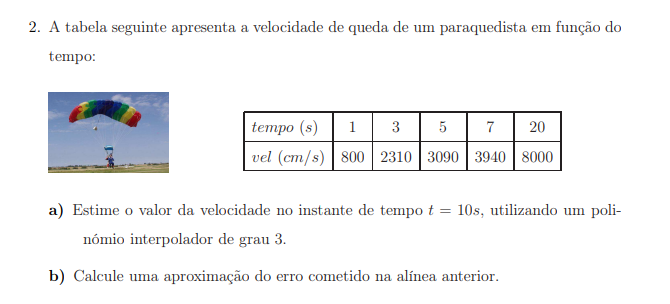
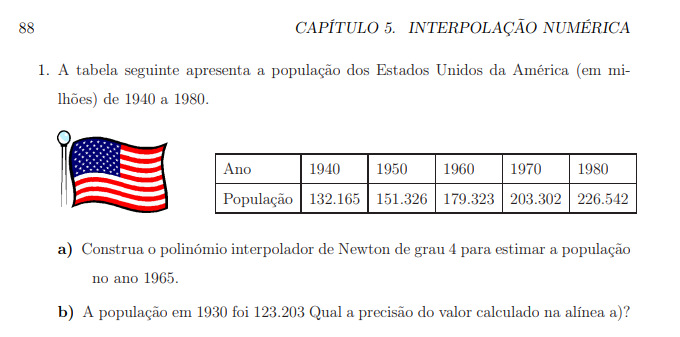
Questões implementadas

diff --git a/metodosInterpolacao/FormaDeNewton/questaoNewton.py b/metodosInterpolacao/FormaDeNewton/questaoNewton.py
@@ -1,24 +1,30 @@
-from newton import diferencas_divididas, interpolacao_newton
+from newton import diferencas_divididas, interpolacao_newton, polinomio_simbolico_newton
 
-# Dados completos da tabela
-tempo_completo = [1, 3, 5, 7, 20]
-vel_completo = [800, 2310, 3090, 3940, 8000]
+# Dados da tabela
+anos = [1940, 1950, 1960, 1970, 1980]
+populacao = [132.165, 151.326, 179.323, 203.302, 226.542]
 
-# a) Polinômio de grau 3 -> usar 4 pontos (os mais próximos de t=10)
-# t=10 está entre 7 e 20, então os 4 pontos mais próximos são: 3, 5, 7, 20
+# Tabela de diferenças divididas
+coeficientes = diferencas_divididas(anos, populacao)
+print("=== Tabela de diferenças divididas ===")
+for i, c in enumerate(coeficientes):
+    print(f"  f[x0..x{i}] = {c}")
 
-t_estimar = 10
-coeficientes = diferencas_divididas(tempo_completo, vel_completo)
-resultado_grau3 = interpolacao_newton(tempo_completo, vel_completo, t_estimar)
+# a) Polinômio de grau 4 (5 pontos) -> estimar 1965
+resultado_1965 = interpolacao_newton(anos, populacao, 1965)
+expr = polinomio_simbolico_newton(anos, populacao)
+print(f"\na) Estimativa para 1965")
+print(f"Polinômio interpolador: P(x) = {expr}")
+print(f"População estimada em 1965: {resultado_1965:.3f} milhões")
 
-print("a) Polinômio de grau 3 (4 pontos: 3, 5, 7, 20)")
-print(f"Coeficientes (diferenças divididas): {coeficientes}")
-print(f"Velocidade estimada em t={t_estimar}s: {resultado_grau3:.4f} cm/s")
+# b) Precisão: comparar com o valor real de 1930 (extrapolação)
+valor_real_1930 = 123.203
+resultado_1930 = interpolacao_newton(anos, populacao, 1930)
+erro_abs = abs(resultado_1930 - valor_real_1930)
+erro_rel = erro_abs / valor_real_1930 * 100
 
-# b) Erro: comparar com o polinômio de grau 4 (usando todos os 5 pontos)
-resultado_grau4 = interpolacao_newton(tempo_completo, vel_completo, t_estimar)
-erro_estimado = abs(resultado_grau4 - resultado_grau3)
-
-print("\nb) Estimativa do erro")
-print(f"Velocidade com polinômio de grau 4 (todos os 5 pontos): {resultado_grau4:.4f} cm/s")
-print(f"Erro estimado |grau4 - grau3|: {erro_estimado:.4f} cm/s")
+print(f"\nb) Precisão para 1930")
+print(f"Valor calculado para 1930: {resultado_1930:.3f} milhões")
+print(f"Valor real para 1930: {valor_real_1930} milhões")
+print(f"Erro absoluto: {erro_abs:.3f} milhões")
+print(f"Erro relativo: {erro_rel:.2f}%")

diff --git a/metodosInterpolacao/FormaDeLagrange/questaolagrange.py b/metodosInterpolacao/FormaDeLagrange/questaolagrange.py
@@ -1,25 +1,25 @@
 from lagrange import interpolacao_lagrange, polinomio_simbolico_lagrange
 
-# Dados da tabela (Ano -> População em milhões)
+# Dados da tabela
 anos = [1940, 1950, 1960, 1970, 1980]
 populacao = [132.165, 151.326, 179.323, 203.302, 226.542]
 
-# a) Estimar a população em 1965
-ano_estimar = 1965
-resultado = interpolacao_lagrange(anos, populacao, ano_estimar)
-print('a) Estimar a população em 1965:\n')
-print(f'Polinômio interpolador (forma expandida) : P(x) = {polinomio_simbolico_lagrange(anos, populacao)}\n')
-print(f"População estimada em {ano_estimar}: {resultado:.3f} milhões")
+# a) Estimar a população em 1965 com polinômio de grau 4 (5 pontos -> grau 4)
+resultado_1965 = interpolacao_lagrange(anos, populacao, 1965)
+print("a) Estimativa para 1965")
+print(f"População estimada em 1965: {resultado_1965:.3f} milhões")
 
-# b) Comparar com o valor real de 1930 (para avaliar precisão -- extrapolação)
-ano_real = 1930
-valor_real = 123.203
-resultado_1930 = interpolacao_lagrange(anos, populacao, ano_real)
-erro = abs(resultado_1930 - valor_real)
-erro_relativo = erro / valor_real * 100
+expr = polinomio_simbolico_lagrange(anos, populacao)
+print(f"Polinômio interpolador: P(x) = {expr}\n")
 
-print('b) Comparar com o valor real de 1930 (para avaliar precisão -- extrapolação)\n')
-print(f"\nValor calculado para {ano_real}: {resultado_1930:.3f} milhões")
-print(f"Valor real para {ano_real}: {valor_real} milhões")
-print(f"Erro absoluto: {erro:.3f}")
-print(f"Erro relativo: {erro_relativo:.2f}%")
+# b) Precisão: comparar com o valor real de 1930 (extrapolação)
+valor_real_1930 = 123.203
+resultado_1930 = interpolacao_lagrange(anos, populacao, 1930)
+erro_abs = abs(resultado_1930 - valor_real_1930)
+erro_rel = erro_abs / valor_real_1930 * 100 
+
+print("b) Precisão para 1930")
+print(f"Valor calculado para 1930: {resultado_1930:.3f} milhões")
+print(f"Valor real para 1930:      {valor_real_1930} milhões")
+print(f"Erro absoluto: {erro_abs:.3f} milhões")
+print(f"Erro relativo: {erro_rel:.2f}%")
